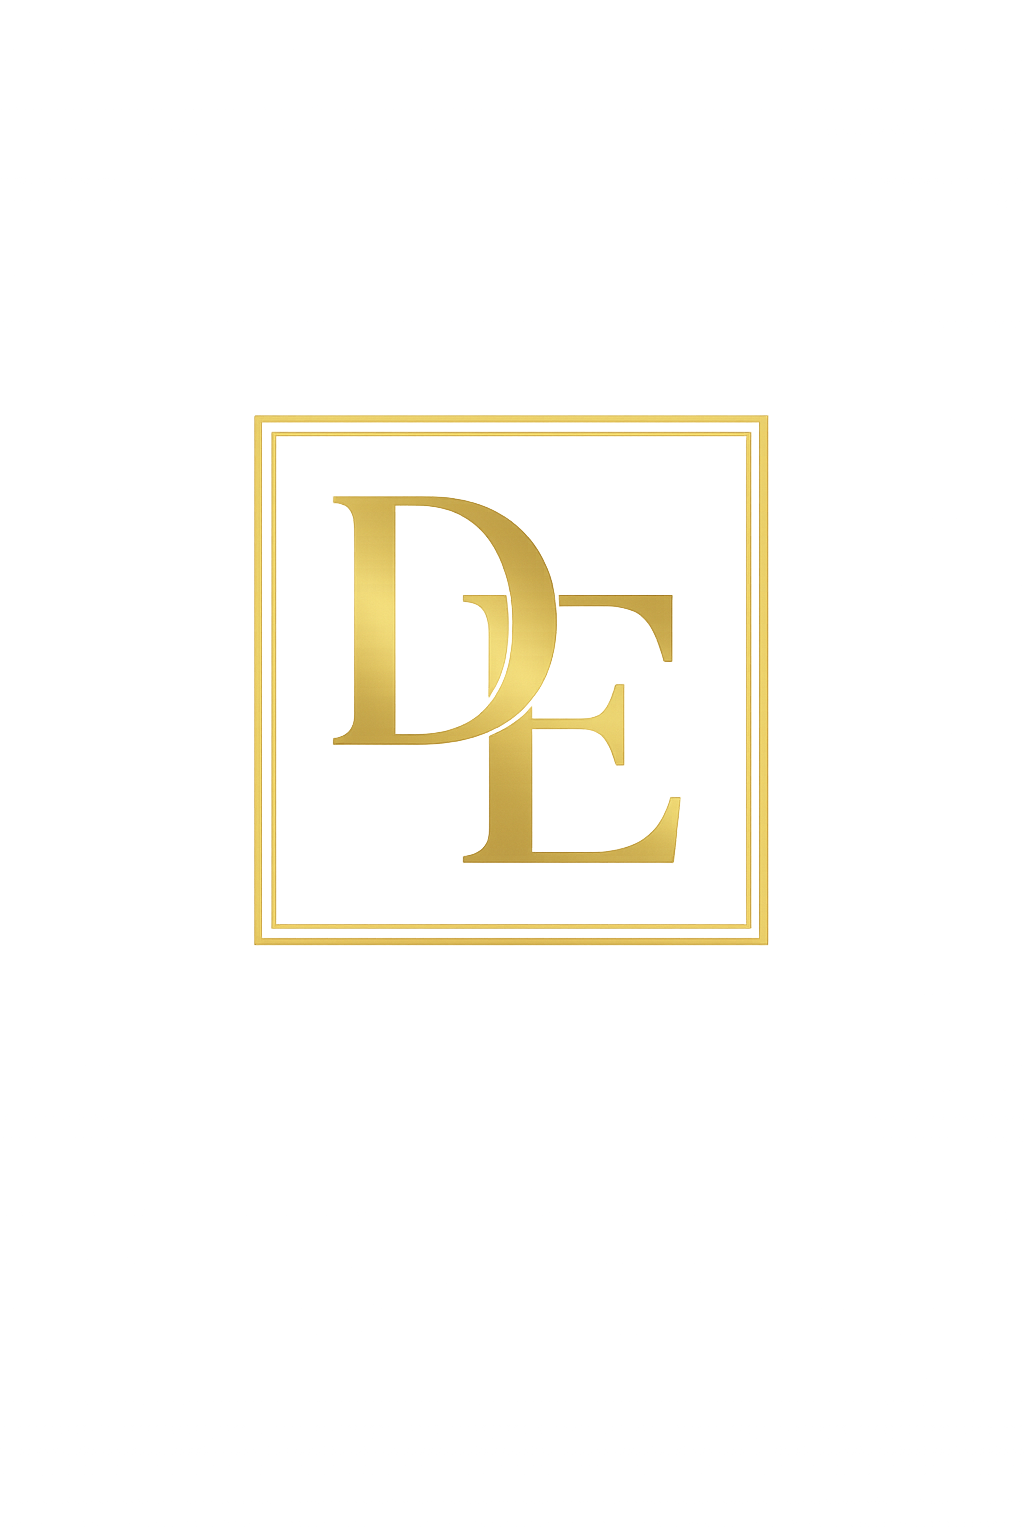
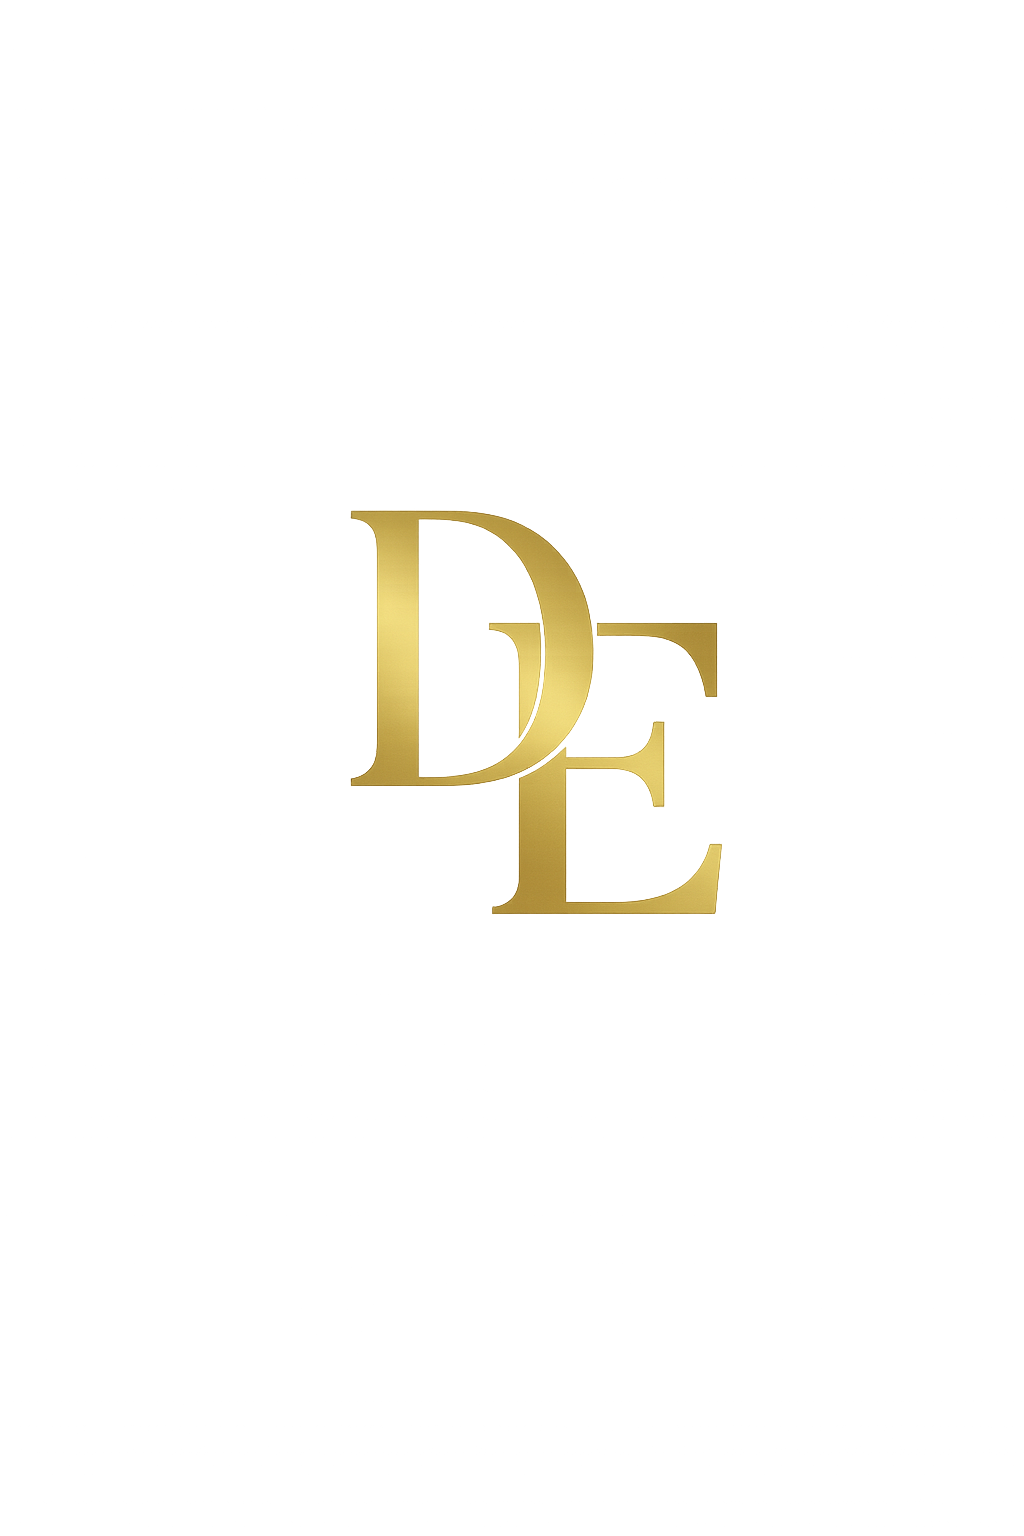
Replace and resize footer monogram

Changed region(s): [[0.25, 0.25, 0.75, 0.625]]

diff --git a/style.css b/style.css
@@ -4,7 +4,7 @@ Theme URI:    https://daliciaemerson.com
 Description:  Kadence child theme for Dalicia Emerson — NWA Luxury REALTOR®, Coldwell Banker Harris McHaney & Faucette.
 Author:       Dalicia Emerson
 Template:     kadence
-Version:      2.3.8
+Version:      2.3.9
 License:      Private
 Text Domain:  daliciaemerson
 */
@@ -1221,8 +1221,8 @@ body:has([class*="showcaseidx"]) .site-main {
 
 .de-footer__monogram {
   display: block;
-  width: 54px;
-  height: 54px;
+  width: 72px;
+  height: 72px;
   object-fit: contain;
   margin-bottom: 12px;
 }
@@ -1583,8 +1583,8 @@ body:has([class*="showcaseidx"]) .site-main {
 /* ── Footer Responsive: 700px — 1 column ──────────────────── */
 @media (max-width: 700px) {
   .de-footer__monogram {
-    width: 48px;
-    height: 48px;
+    width: 60px;
+    height: 60px;
   }
   .de-footer__main {
     padding: 48px 24px 40px;

diff --git a/footer.php b/footer.php
@@ -11,7 +11,7 @@
       <!-- Col 1: Brand -->
       <div class="de-footer__col de-footer__col--brand">
         <div class="de-footer__brand">
-          <img src="<?php echo esc_url( get_stylesheet_directory_uri() . '/assets/images/de-monogram.png' ); ?>" alt="Dalicia Emerson monogram" class="de-footer__monogram" width="54" height="54">
+          <img src="<?php echo esc_url( get_stylesheet_directory_uri() . '/assets/images/de-monogram.png' ); ?>" alt="Dalicia Emerson monogram" class="de-footer__monogram" width="72" height="72">
           <p class="de-footer__brand-name">Dalicia Emerson</p>
           <p class="de-footer__brand-tagline">Luxury Real Estate</p>
           <p class="de-footer__brand-copy">Helping families relocate and find their next home across Northwest Arkansas with a global luxury network behind every deal.</p>
